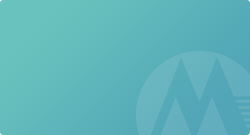
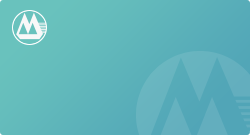
添加银行卡背景图

Changed region(s): [[0.028, 0.0593, 0.196, 0.3556]]

diff --git a/src/apps/main/userCenter/misc/bankConfig.js b/src/apps/main/userCenter/misc/bankConfig.js
@@ -10,142 +10,86 @@ const banks = [
   {
     id: 2,
     zhName: '工商银行',
-    pic: require('./gongshang.png'),
-    lockPic: require('./lockgongshang.png'),
     logo: require('./bankImages/zhaoshang.png'),
-    disLogo: require('./disgongshangL.png'),
-    // bankClassName: 'gongshang',
-    bankClassName: 'zhaoshang',
+    bankClassName: 'gongshang',
   },
   {
     id: 3,
     zhName: '建设银行',
-    pic: require('./jianshe.png'),
-    lockPic: require('./lockjianshe.png'),
     logo: require('./bankImages/zhaoshang.png'),
-    disLogo: require('./disjiansheL.png'),
-    // bankClassName: 'jianshe',
-    bankClassName: 'zhaoshang',
+    bankClassName: 'jianshe',
   },
   {
     id: 4,
     zhName: '农业银行',
-    pic: require('./nongye.png'),
-    lockPic: require('./locknongye.png'),
     logo: require('./bankImages/zhaoshang.png'),
-    disLogo: require('./disnongyeL.png'),
-    // bankClassName: 'nongye',
-    bankClassName: 'zhaoshang',
+    bankClassName: 'nongye',
   },
   {
     id: 5,
     zhName: '中国银行',
-    pic: require('./zhongguo.png'),
-    lockPic: require('./lockzhongguo.png'),
     logo: require('./bankImages/zhaoshang.png'),
-    disLogo: require('./diszhongguoL.png'),
-    // bankClassName: 'zhongguo',
-    bankClassName: 'zhaoshang',
+    bankClassName: 'zhongguo',
   },
   {
     id: 6,
     zhName: '交通银行',
-    pic: require('./jiaotong.png'),
-    lockPic: require('./lockjiaotong.png'),
     logo: require('./bankImages/zhaoshang.png'),
-    disLogo: require('./disjiaotongL.png'),
-    // bankClassName: 'jiaotong',
-    bankClassName: 'zhaoshang',
+    bankClassName: 'jiaotong',
   },
   {
     id: 7,
     zhName: '广发银行',
-    pic: require('./guangfa.png'),
-    lockPic: require('./lockguangfa.png'),
     logo: require('./bankImages/zhaoshang.png'),
-    disLogo: require('./disguangfaL.png'),
-    // bankClassName: 'guangfa',
-    bankClassName: 'zhaoshang',
+    bankClassName: 'guangfa',
   },
   {
     id: 8,
     zhName: '光大银行',
-    pic: require('./guangda.png'),
-    lockPic: require('./lockguangda.png'),
     logo: require('./bankImages/zhaoshang.png'),
-    disLogo: require('./disguangdaL.png'),
-    // bankClassName: 'guangda',
-    bankClassName: 'zhaoshang',
+    bankClassName: 'guangda',
   },
   {
     id: 9,
     zhName: '浦发银行',
-    pic: require('./pufa.png'),
-    lockPic: require('./lockpufa.png'),
     logo: require('./bankImages/zhaoshang.png'),
-    disLogo: require('./dispufaL.png'),
-    // bankClassName: 'pufa',
-    bankClassName: 'zhaoshang',
+    bankClassName: 'pufa',
   },
   {
     id: 10,
     zhName: '民生银行',
-    pic: require('./minsheng.png'),
-    lockPic: require('./lockminsheng.png'),
     logo: require('./bankImages/zhaoshang.png'),
-    disLogo: require('./disminshengL.png'),
-    // bankClassName: 'minsheng',
-    bankClassName: 'zhaoshang',
+    bankClassName: 'minsheng',
   },
   {//
     id: 11,
     zhName: '平安银行',
-    pic: require('./pingan.png'),
-    lockPic: require('./noLogo.png'),
     logo: require('./bankImages/zhaoshang.png'),
-    disLogo: require('./noLogo.png'),
-    // bankClassName: 'pingan',
-    bankClassName: 'zhaoshang',
+    bankClassName: 'pingan',
   },
   {//
     id: 12,
     zhName: '兴业银行',
-    pic: require('./xingye.png'),
-    lockPic: require('./noLogo.png'),
     logo: require('./bankImages/zhaoshang.png'),
-    disLogo: require('./noLogo.png'),
-    // bankClassName: 'xingye',
-    bankClassName: 'zhaoshang',
+    bankClassName: 'xingye',
   },
   {
     id: 13,
     zhName: '中信银行',
-    pic: require('./zhongxing.png'),
-    lockPic: require('./lockzhongxing.png'),
     logo: require('./bankImages/zhaoshang.png'),
-    disLogo: require('./diszhongxingL.png'),
-    // bankClassName: 'zhongxin',
-    bankClassName: 'zhaoshang',
+    bankClassName: 'zhongxin',
   },
   {
     id: 14,
     zhName: '邮政银行',
-    pic: require('./youzheng.png'),
-    lockPic: require('./lockyouzheng.png'),
     logo: require('./bankImages/zhaoshang.png'),
-    disLogo: require('./disyouzhengL.png'),
-    // bankClassName: 'youzheng',
-    bankClassName: 'zhaoshang',
+    bankClassName: 'youzheng',
   },
   {//
     id: 15,
     zhName: '华夏银行',
-    pic: require('./huaxia.png'),
-    lockPic: require('./noLogo.png'),
     logo: require('./bankImages/zhaoshang.png'),
-    disLogo: require('./noLogo.png'),
-    // bankClassName: 'huaxia',
-    bankClassName: 'zhaoshang',
+    bankClassName: 'huaxia',
   },
 
 ]

diff --git a/src/apps/main/userCenter/misc/index.scss b/src/apps/main/userCenter/misc/index.scss
@@ -460,8 +460,8 @@
       right: 8px;
     }
     .card-logo-name{
-      padding-top: 10px;
-      padding-left: 12px;
+      padding-top: 17px;
+      padding-left: 45px;
     }
     .card-num{
       margin: 15px 0px 10px 15px;
@@ -470,8 +470,47 @@
     &.zhaoshang{
       background: url("./bankImages/zhaoshang_bg.png") no-repeat;
     }
+    &.gongshang{
+      background: url("./bankImages/gongshang_bg.png") no-repeat;
+    }
+    &.jianshe{
+      background: url("./bankImages/jianshe_bg.png") no-repeat;
+    }
+    &.nongye{
+      background: url("./bankImages/nongye_bg.png") no-repeat;
+    }
+    &.zhongguo{
+      background: url("./bankImages/zhongguo_bg.png") no-repeat;
+    }
     &.jiaotong{
       background: url("./bankImages/jiaotong_bg.png") no-repeat;
+    }
+    &.guangfa{
+      background: url("./bankImages/guangfa_bg.png") no-repeat;
+    }
+    &.guangda{
+      background: url("./bankImages/guangda_bg.png") no-repeat;
+    }
+    &.pufa{
+      background: url("./bankImages/pufa_bg.png") no-repeat;
+    }
+    &.minsheng{
+      background: url("./bankImages/minsheng_bg.png") no-repeat;
+    }
+    &.pingan{
+      background: url("./bankImages/pingan_bg.png") no-repeat;
+    }
+    &.xingye{
+      background: url("./bankImages/xingye_bg.png") no-repeat;
+    }
+    &.zhongxin{
+      background: url("./bankImages/zhongxin_bg.png") no-repeat;
+    }
+    &.youzheng{
+      background: url("./bankImages/youzheng_bg.png") no-repeat;
+    }
+    &.huaxia{
+      background: url("./bankImages/huaxia_bg.png") no-repeat;
     }
   }
 

diff --git a/src/apps/main/userCenter/templates/cardManage-item.html b/src/apps/main/userCenter/templates/cardManage-item.html
@@ -6,7 +6,6 @@
   <a class="card-lock"></a>
   <% } %>
   <div class="card-logo-name">
-    <img class="card-logo" src="<%=bankInfo.logo %>">
     <span class="card-name font-sm m-left-sm text-white"><%=card.bankName %></span>
   </div>
   <div class="card-num"><%=card.cardNo %></div>
